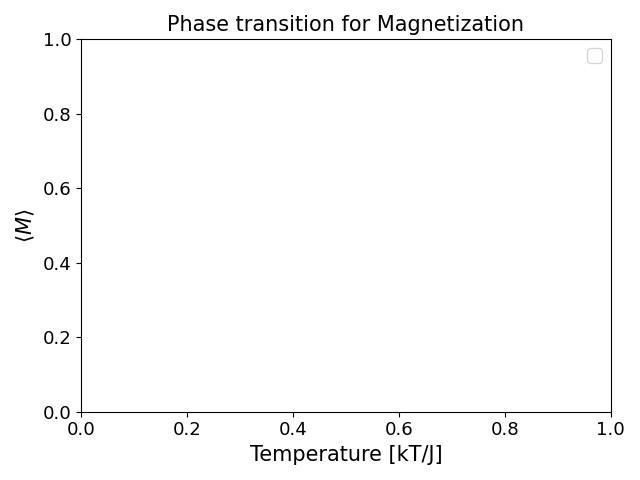
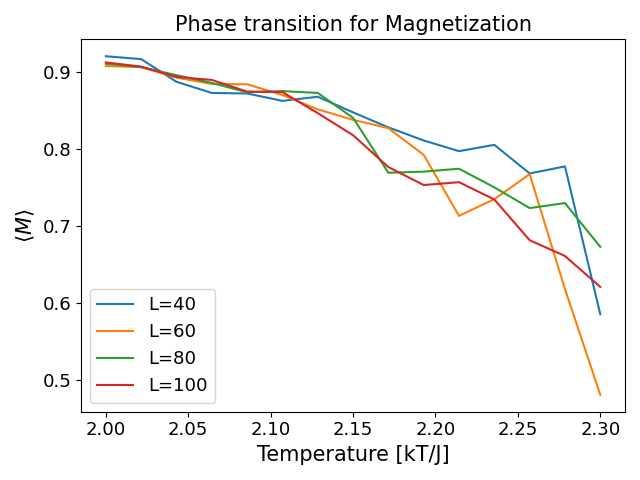
plot update

diff --git a/Project4/new_main.py b/Project4/new_main.py
@@ -460,23 +460,23 @@ if ex_f:
     """
     skriv noe
     """
-    L  = [40, 60, 80, 100]    # Number of spins
-    T1 = 2.0   # [kT/J] Temperature
-    T2 = 2.3   # [kT/J] Temperature
+    L  = [40, 60, 80, 100]          # Number of spins
+    T1 = 2.0                        # [kT/J] Temperature
+    T2 = 2.3                        # [kT/J] Temperature
     dT = 0.02
-    N = int(round((T2 - T1)/dT))  #nr of steps
+    N  = int(round((T2 - T1)/dT))   # nr of steps
     NL = int(len(L))
-    T = np.linspace(T1, T2, N)
+    T  = np.linspace(T1, T2, N)
 
     names       = ['Energy','Magnetization','Abs. Magnetization',\
-               'Specific Heat','Susceptibility']
+                   'Specific Heat','Susceptibility']
 
     ylabels      = [r'$\langle E\rangle$', r'$\langle M \rangle$',\
-                r'$\langle|M|\rangle$', r'$C_V$', r'$\chi$']
+                    r'$\langle|M|\rangle$', r'$C_V$', r'$\chi$']
 
     save_as      = ['energy','mag','Mabs','CV','CHI']
 
-    MC_runs     = int(1e3)
+    MC_runs     = int(1e6)
     stable      = int(0.10*MC_runs)
 
     E_val       = np.zeros((NL, N))  # rows L, columns N (temperature)
@@ -502,6 +502,7 @@ if ex_f:
     vals = [E_val, M_val, M_abs_val, Cv_val, X_val]
 
     for i in range(len(names)):
+        plt.figure()
         val = vals[i]
         for l in range(NL):
             plt.plot(T, val[l,:], label="L=%g" %L[l])
